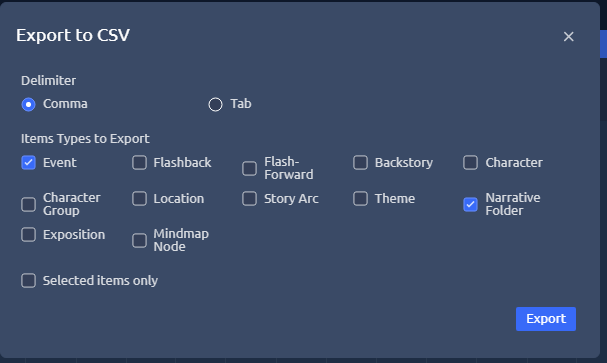
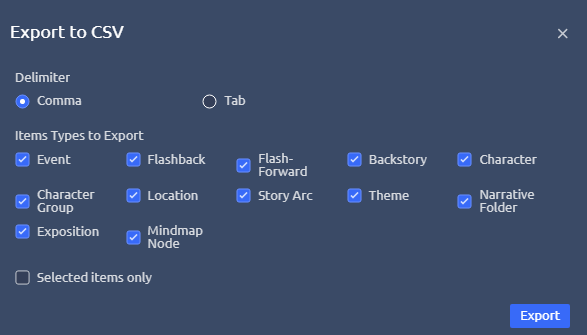
Rebuild v0.4.0 with updated help text.

diff --git a/docs/usage.md b/docs/usage.md
@@ -60,7 +60,7 @@ See [below](#custom-configuration)
 ## csv export from Aeon Timeline 3
 
 - The csv file exported by Aeon Timeline 3 must be **comma**-separated.
-- At least the "Event" and "Narrative Folder" checkboxes must be ticked.
+- Make sure all *Item Types for Export* checkboxes are ticked.
 
 ![Aeon 3 Export settings](https://raw.githubusercontent.com/peter88213/aeon3yw/main/docs/Screenshots/csv_export.png)
 
